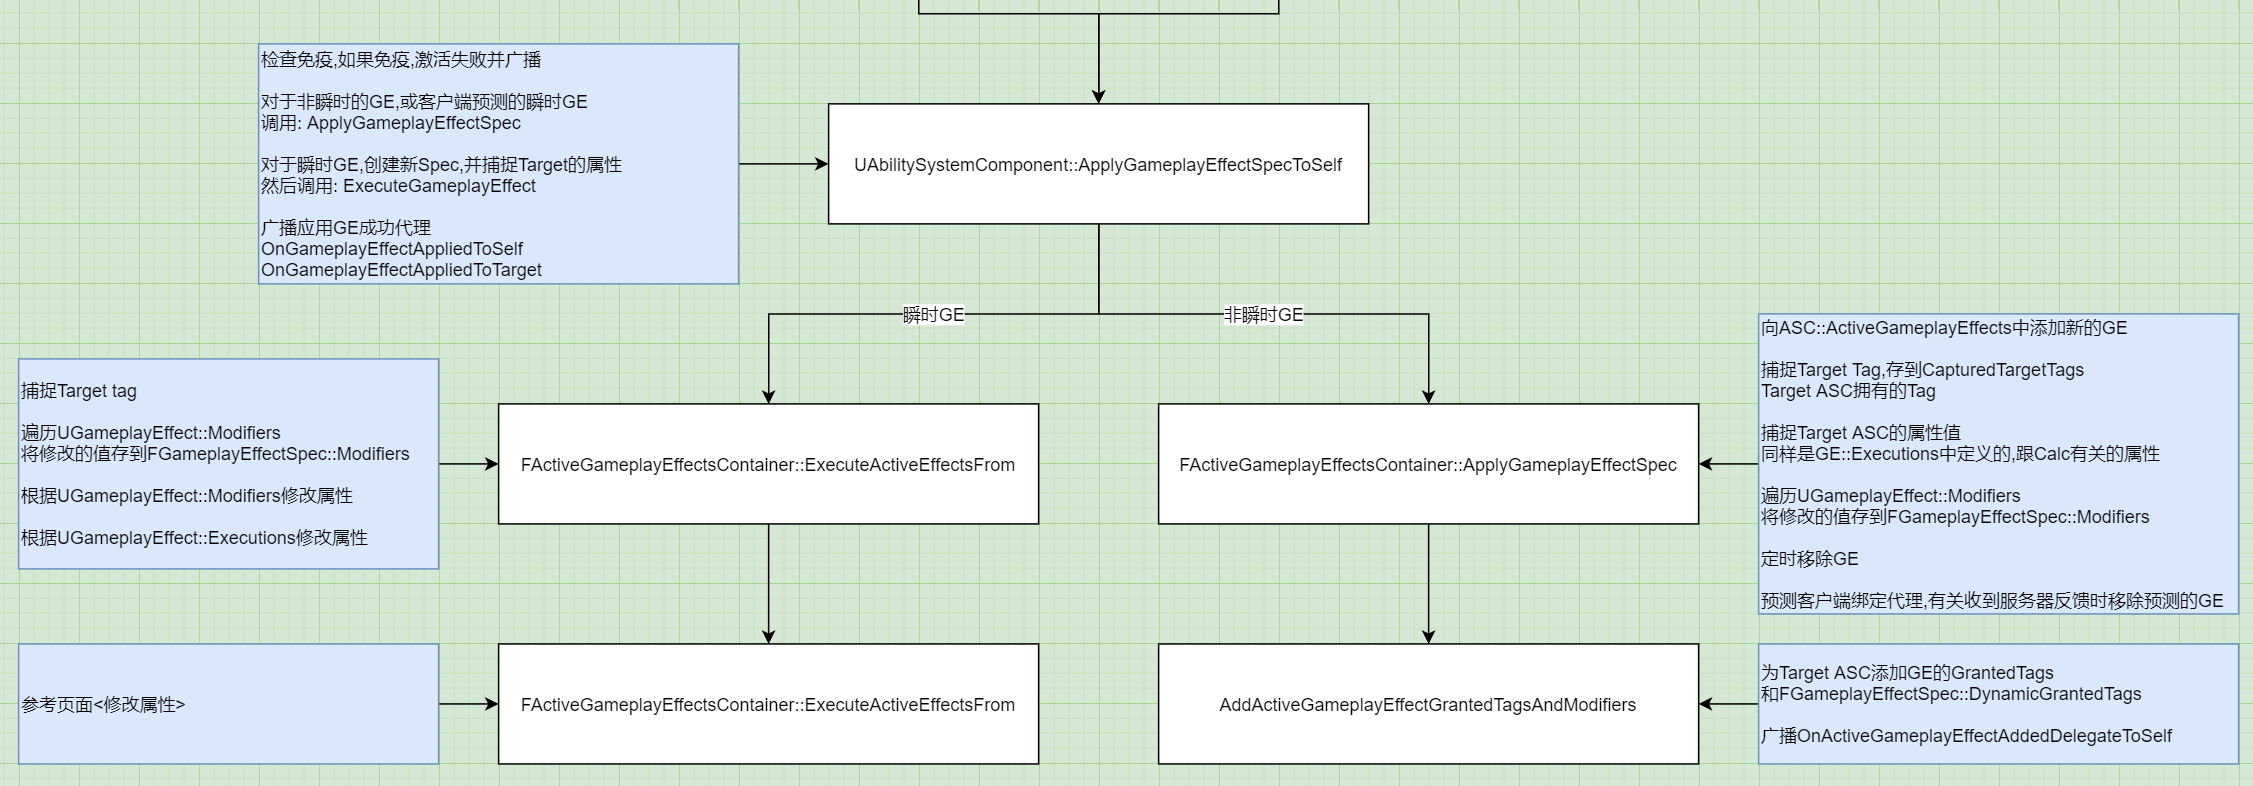
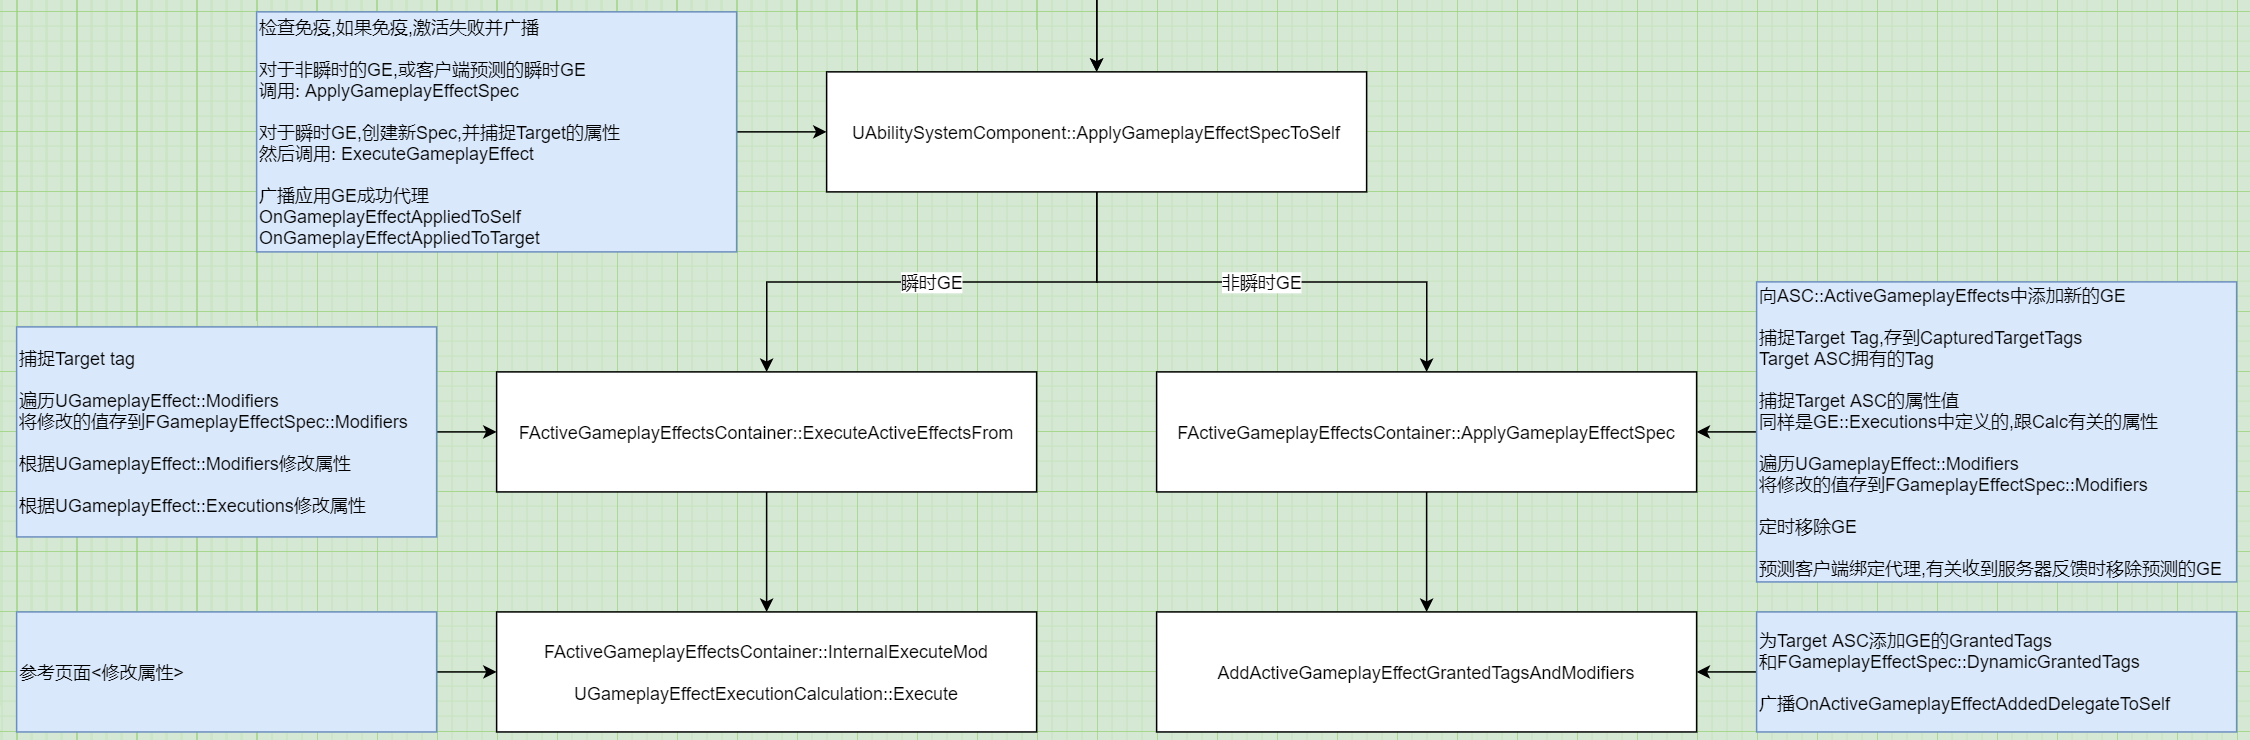
GE修改属性

diff --git a/UE4/源码分析/GAS/GAS_04_GE_02_修改属性.md b/UE4/源码分析/GAS/GAS_04_GE_02_修改属性.md
@@ -9,18 +9,25 @@
                 - [`InternalUpdateNumericalAttribute`广播属性改变代理,设置CurrentValue](#internalupdatenumericalattribute广播属性改变代理设置currentvalue)
                     - [`SetNumericValueChecked`修改属性的CurrentValue](#setnumericvaluechecked修改属性的currentvalue)
     - [`UGameplayEffectExecutionCalculation::Execute`根据`UGameplayEffect::Executions`修改属性](#ugameplayeffectexecutioncalculationexecute根据ugameplayeffectexecutions修改属性)
+        - [定义要捕捉哪些属性](#定义要捕捉哪些属性)
+        - [Tag捕捉](#tag捕捉)
+        - [获取捕捉的属性值](#获取捕捉的属性值)
+        - [获取根据Tag动态设置的值](#获取根据tag动态设置的值)
+        - [参数OutExecutionOutput返回要修改的属性,后面调用`InternalExecuteMod`修改属性值](#参数outexecutionoutput返回要修改的属性后面调用internalexecutemod修改属性值)
 
 ## 简介
-`InternalExecuteMod`,根据`UGameplayEffect::Modifiers`修改属性  
+1. `UGameplayEffect::Modifiers`调用`InternalExecuteMod`修改属性  
 
-一些生命周期:  
+2. `UGameplayEffect::Executions`调用`UGameplayEffectExecutionCalculation::Execute`获取要修改的属性  
+    再调用`InternalExecuteMod`修改这些属性  
+
+一些生命周期(按执行顺序):  
 
 + `PreGameplayEffectExecute`: Clamp操作,也可返回false取消对属性的修改  
-+ `PreAttributeBaseChange`: 没什么用  
 + `PreAttributeChange`: Clamp操作  
 + `PostGameplayEffectExecute`: 可以在这里写各种游戏逻辑,比如Clamp,为每一点伤害加分  
 
-![](Images/Modifiers修改属性.png)
+![](Images/GE修改属性.png)
 
 ## `InternalExecuteMod`,根据`UGameplayEffect::Modifiers`修改属性
 ```
@@ -125,3 +132,84 @@ void FGameplayAttribute::SetNumericValueChecked(float& NewValue, class UAttribut
 ```
 
 ## `UGameplayEffectExecutionCalculation::Execute`根据`UGameplayEffect::Executions`修改属性
+参考GAS中文文档项目的GDDamageExecCalculation.cpp  
+
+```
+void UGDDamageExecCalculation::Execute_Implementation(
+    const FGameplayEffectCustomExecutionParameters & ExecutionParams, 
+    OUT FGameplayEffectCustomExecutionOutput & OutExecutionOutput // 引用参数,返回要修改的属性
+    ) const
+{
+    // 获取捕捉的Target护甲值
+    float Armor = 0.0f;
+	ExecutionParams.AttemptCalculateCapturedAttributeMagnitude(DamageStatics().ArmorDef, EvaluationParameters, Armor);
+	Armor = FMath::Max<float>(Armor, 0.0f);
+
+    // 获取捕捉的Source原始伤害值
+    float Damage = 0.0f;
+	ExecutionParams.AttemptCalculateCapturedAttributeMagnitude(DamageStatics().DamageDef, EvaluationParameters, Damage);
+    
+    // Data.Damage应该是额外动态设置的附加伤害
+	Damage += FMath::Max<float>(Spec.GetSetByCallerMagnitude(FGameplayTag::RequestGameplayTag(FName("Data.Damage")), false, -1.0f), 0.0f);
+
+    // 根据自定义公式计算最终伤害FinalDamage
+
+    // 返回要修改的属性值
+    // 后面会调用InternalExecuteMod,使用和UGameplayEffect::Modifiers一样的方法修改属性
+    OutExecutionOutput.AddOutputModifier(FGameplayModifierEvaluatedData(DamageStatics().DamageProperty, EGameplayModOp::Additive, FinalDamage));
+
+    // 可以在这里广播自定义代理
+}
+```
+
+### 定义要捕捉哪些属性
+参考前一节  
+构造函数中,将定义好的要捕捉的属性加入RelevantAttributesToCapture  
+创建GE时,就会捕捉这些属性存到`FGameplayEffectSpec::CapturedRelevantAttributes`里面的AttributeAggregator
+
+```
+UGDDamageExecCalculation::UGDDamageExecCalculation()
+{
+	RelevantAttributesToCapture.Add(DamageStatics().DamageDef);
+	RelevantAttributesToCapture.Add(DamageStatics().ArmorDef);
+}
+```
+
+### Tag捕捉
+参考前一节  
+`FGameplayEffectSpec::CapturedSourceTags`包含GE的Tag,SourceASC的Tag,GA的Tag(如果由GA创建)  
+`FGameplayEffectSpec::CapturedTargetTags`包含TargetASC的Tag  
+
+### 获取捕捉的属性值
+`AttemptCalculateCapturedAttributeMagnitude`,函数蛮复杂的,有根据捕捉到的Tag对属性值做各种运算.我们应该用不到  
+示例项目的用法很简单,就是直接获取`FGameplayEffectSpec::CapturedRelevantAttributes`里面的AttributeAggregator存储的值,即属性的BaseValue  
+
+### 获取根据Tag动态设置的值
+`FGameplayEffectSpec::GetSetByCallerMagnitude`  
+
+### 参数OutExecutionOutput返回要修改的属性,后面调用`InternalExecuteMod`修改属性值
+```
+void FActiveGameplayEffectsContainer::ExecuteActiveEffectsFrom(FGameplayEffectSpec &Spec, FPredictionKey PredictionKey)
+{
+    // 遍历 Executions
+    for (const FGameplayEffectExecutionDefinition& CurExecDef : SpecToUse.Def->Executions)
+    {
+        // Calc Class
+        const UGameplayEffectExecutionCalculation* ExecCDO = CurExecDef.CalculationClass->GetDefaultObject<UGameplayEffectExecutionCalculation>();
+
+        // 引用参数,指明要修改哪些属性
+        FGameplayEffectCustomExecutionOutput ExecutionOutput;
+
+        // 核心计算函数
+        ExecCDO->Execute(ExecutionParams, ExecutionOutput);
+
+        // 遍历要修改的属性,使用和Modifiers一样的方式设置新值
+        TArray<FGameplayModifierEvaluatedData>& OutModifiers = ExecutionOutput.GetOutputModifiersRef();
+
+        for (FGameplayModifierEvaluatedData& CurExecMod : OutModifiers)
+        {
+            ModifierSuccessfullyExecuted |= InternalExecuteMod(SpecToUse, CurExecMod);
+        }
+    }
+}
+```

diff --git a/UE4/源码分析/GAS/GAS_04_GE_01_应用GE.md b/UE4/源码分析/GAS/GAS_04_GE_01_应用GE.md
@@ -330,7 +330,7 @@ void FActiveGameplayEffectsContainer::ExecuteActiveEffectsFrom(FGameplayEffectSp
         // Calc Class
         const UGameplayEffectExecutionCalculation* ExecCDO = CurExecDef.CalculationClass->GetDefaultObject<UGameplayEffectExecutionCalculation>();
 
-        // 传入参数,CalculationModifiers等开了引擎看下到底有没有赋值
+        // 传入参数,CalculationModifiers,中文文档项目为null
         FGameplayEffectCustomExecutionParameters ExecutionParams(SpecToUse, CurExecDef.CalculationModifiers, Owner, CurExecDef.PassedInTags, PredictionKey);
 
         // 引用参数,指明要修改哪些属性

diff --git a/UE4/源码分析/GAS/GAS_01_大纲.md b/UE4/源码分析/GAS/GAS_01_大纲.md
@@ -27,5 +27,4 @@ AbilityTask与`K2Node_LatentAbilityCall`相关
 周期性GE的执行  
 基于属性的计算  
 PreAttributeChange断点  
-中文文档项目的伤害计算  
-编辑器中查看FGameplayEffectExecutionDefinition::CalculationModifiers是否有赋值  
+GE的移除  
